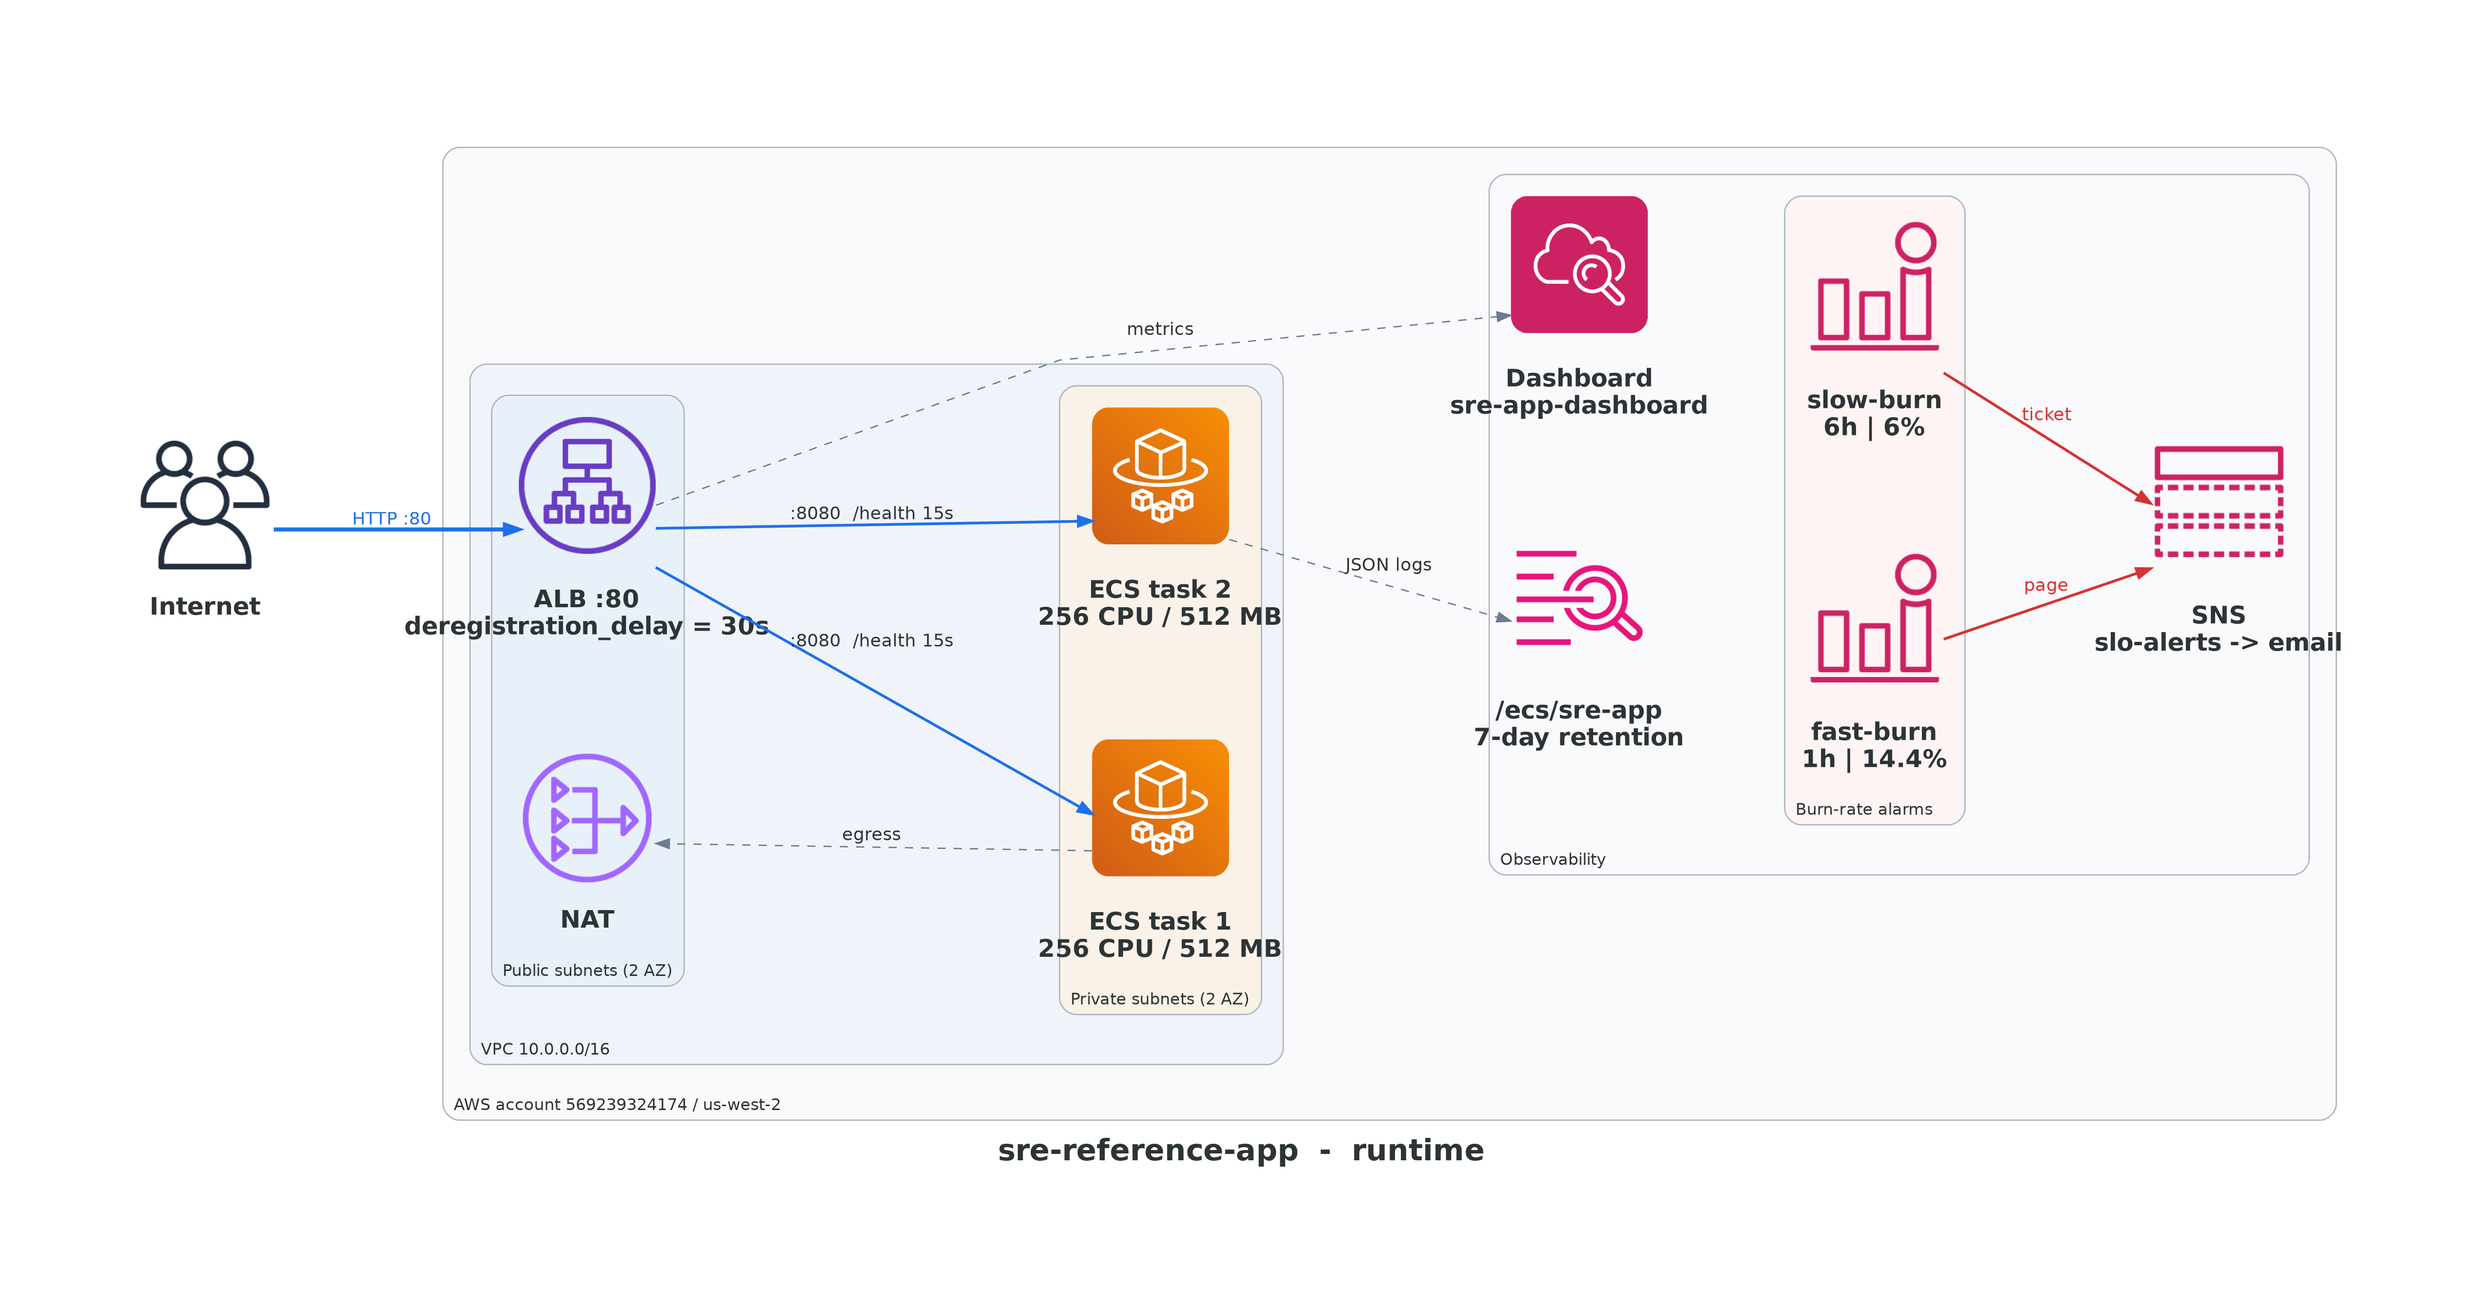
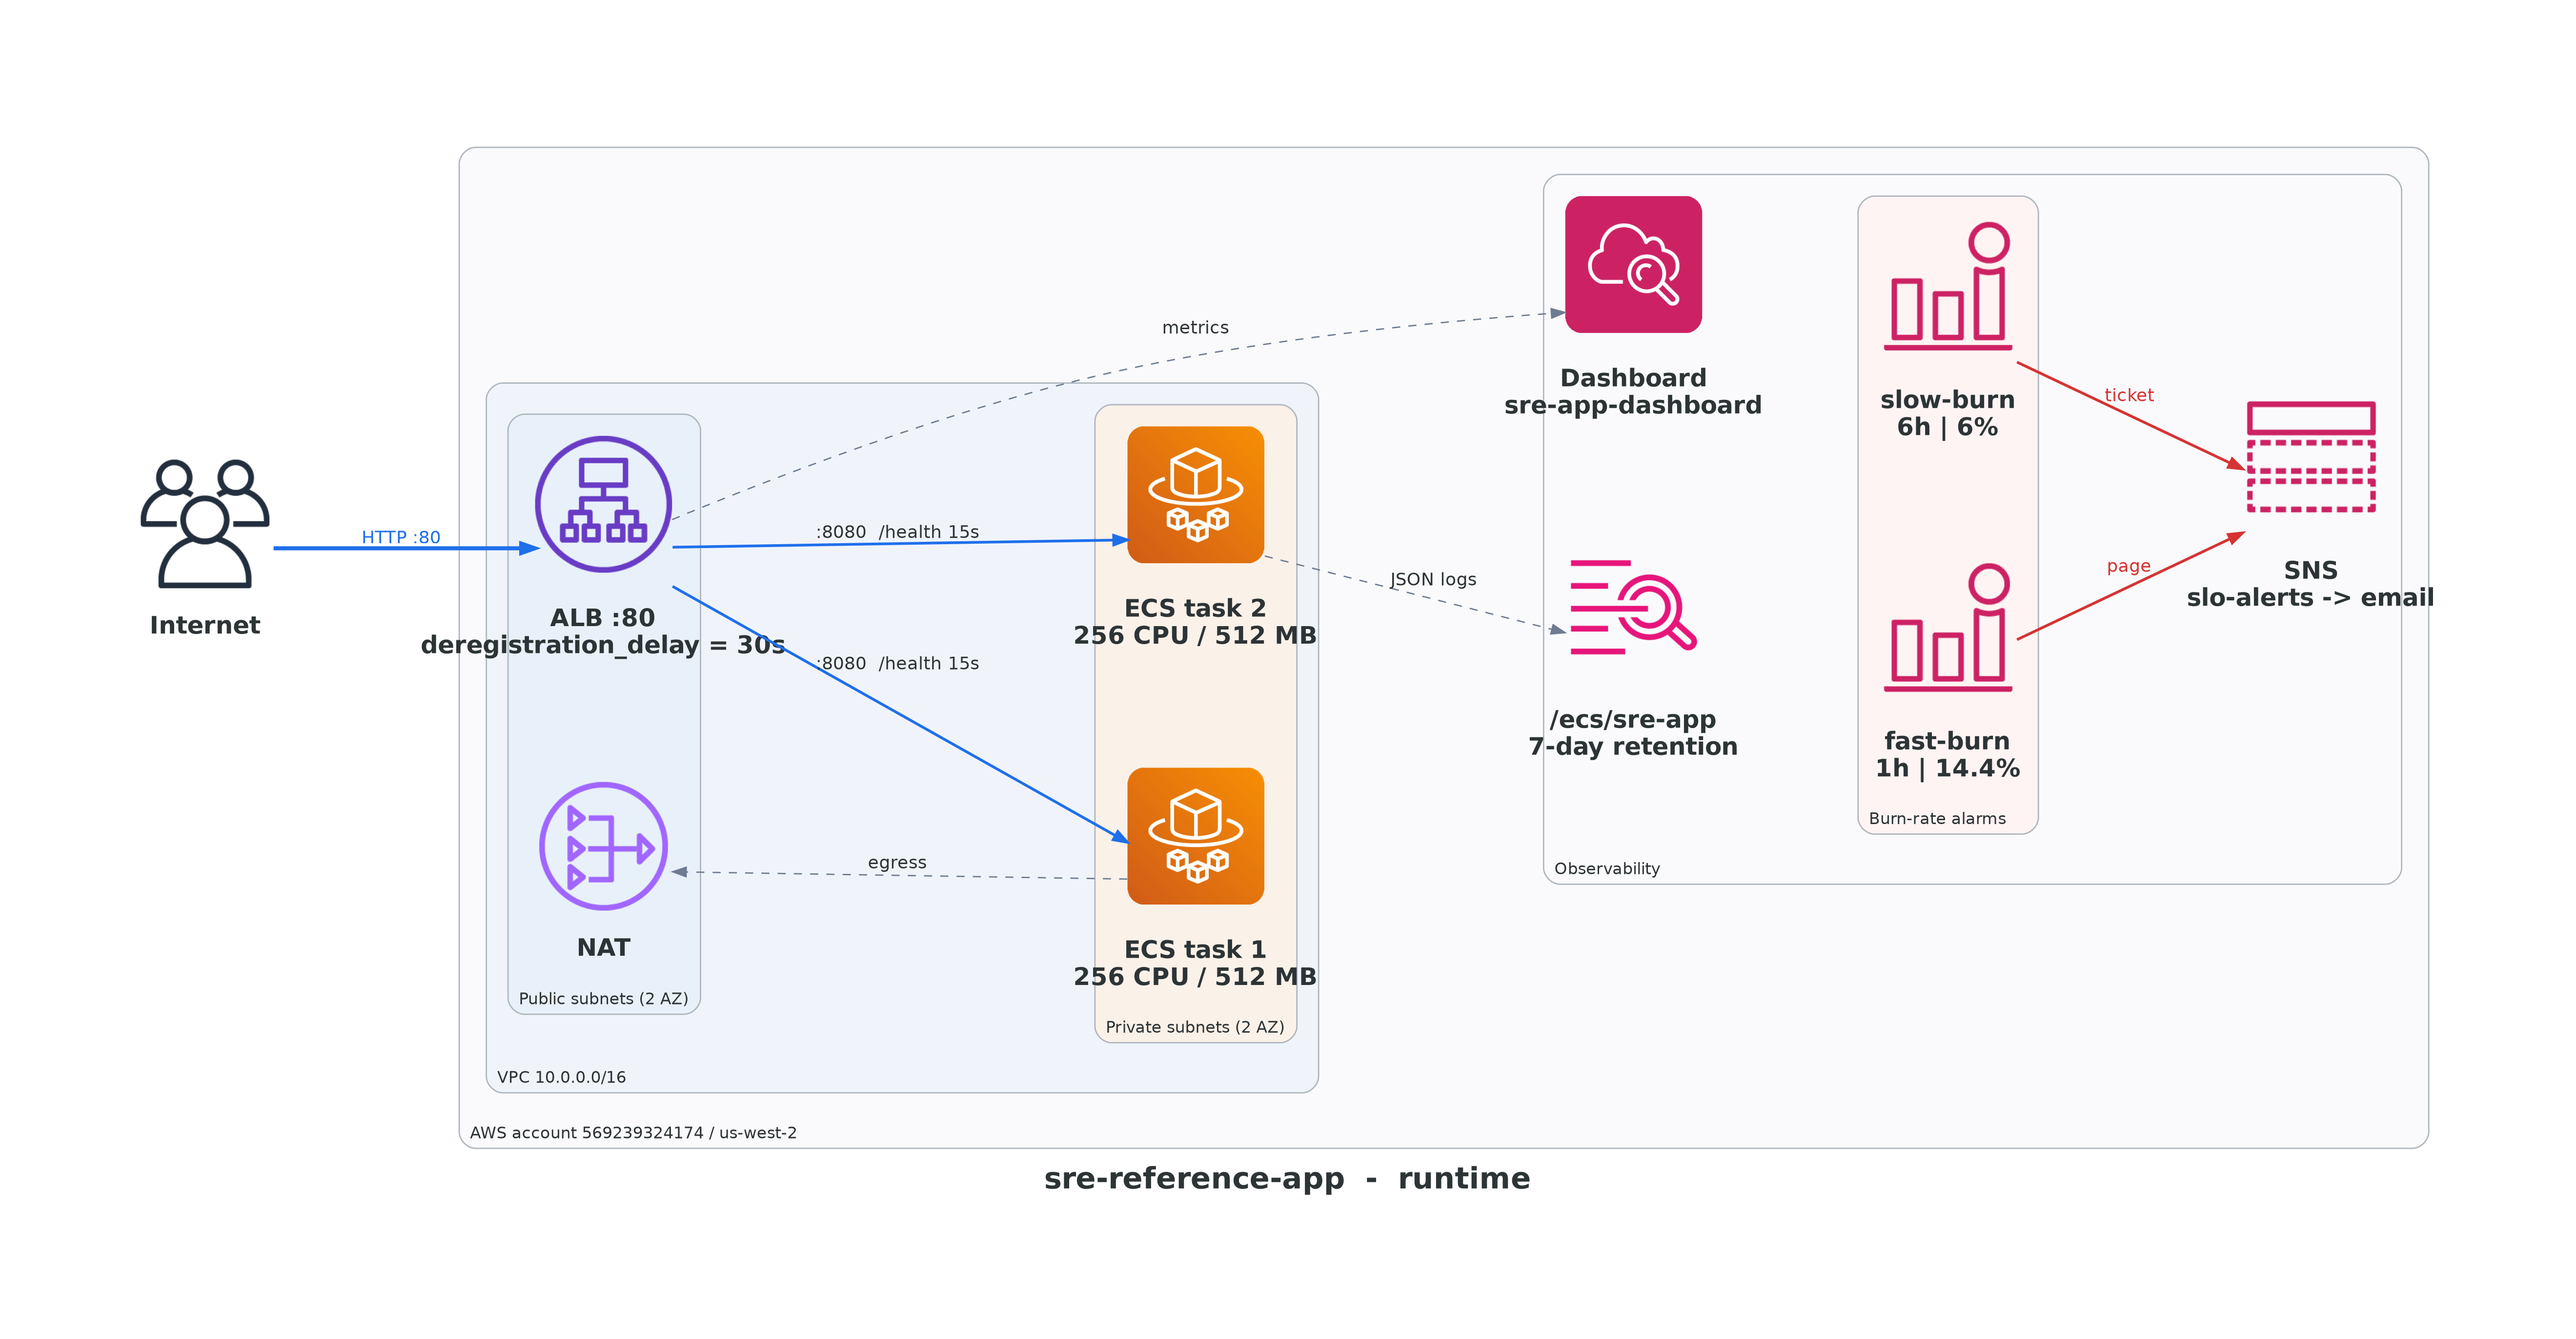
diagrams: switch to spline curves so edges route around labels
splines='polyline' was producing straight segments that cut through label
text where the layout was tight. splines='spline' gives Graphviz smooth
Bezier curves and lets it bend edges around obstacles instead of through
them. Added overlap='false' and forcelabels='true' as belt-and-suspenders
for the label visibility.

Net effect on both PNGs: every edge label sits in clear whitespace, no
icon-on-line collisions, the alarm chain reads as two distinct curves
into the SNS topic instead of two superimposed arrows.

diff --git a/diagrams/architecture.py b/diagrams/architecture.py
@@ -38,9 +38,17 @@ from diagrams.onprem.vcs import Github
 GRAPH = {
     "fontname": "Helvetica-Bold",
     "fontsize": "22",
-    "splines": "polyline",
-    "nodesep": "1.1",
-    "ranksep": "1.6",
+    # spline = smooth Bezier curves. Routes edges AROUND obstacles instead
+    # of through them, which kills the label-collision problem polyline had.
+    # forcelabels=true keeps xlabels visible even when they would otherwise
+    # be suppressed for overlap; concentrate=false avoids merging parallel
+    # edges that share endpoints (we want each labeled edge distinct).
+    "splines": "spline",
+    "overlap": "false",
+    "forcelabels": "true",
+    "concentrate": "false",
+    "nodesep": "1.2",
+    "ranksep": "1.8",
     "pad": "1.4",
     "bgcolor": "white",
     "dpi": "200",
